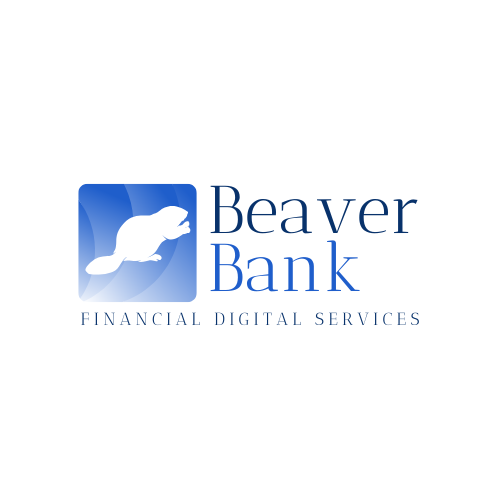
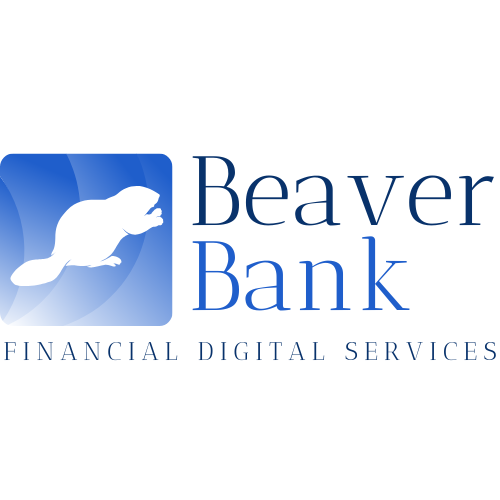
Criando o formulário da página de login

diff --git a/css/index.css b/css/index.css
@@ -1,11 +1,108 @@
-.container-esquerda{
-    width: 50%;
-    height: 100%;
-    background-color: blue;
+:root{
+    --azul: #1f5ecb;
+    --azul-escuro: #08326b;
+    --preto: #000000;
+    --branco: #FFFFFF;
+    --cinza: #808080;
+    --cinza-escuro: #404040;
 }
 
-.container-direita{
-    width: 50%;
+* {
+    margin: 0;
+    padding: 0;
+    box-sizing: border-box;
+}
+html, body {
     height: 100%;
-    background-color: red;
+    width: 100%;
+    background-color: white;
+}
+
+.container {
+    display: flex;
+    width: 100%;
+    height: 100vh; /* vh = viewport height */
+}
+
+.container-esquerda {
+    width: 40%;
+    height: 100%; 
+    background-color: var(--branco);
+    display: flex;
+    justify-content: center;
+    align-items: center;
+}
+
+.container-esquerda img{
+    width: 70%;
+
+}
+
+
+.container-direita {
+    width: 60%;
+    height: 100%;
+    border-bottom-left-radius: 50px;
+    display: flex;
+    justify-content: center;
+    align-items: center;
+    background: #1F5ECB;
+    background: linear-gradient(44deg, rgba(31, 94, 203, 1) 0%, rgba(8, 50, 107, 1) 100%);
+}
+
+.login{
+    width: 70%;
+    height: 60%;
+    background-color: var(--branco);
+    border-radius: 20px;
+}
+
+.login-titulo{
+    width: 100%;
+    height: 20%;
+    text-align: center;
+    font-size: 40px;
+    font-family: "Poppins", sans-serif;
+    font-weight: 600;
+    color: var(--azul);
+    display: flex;
+    justify-content: center;
+    align-items: center;
+}
+
+.formulario{
+    width: 100%;
+    height: 80%;
+    display: flex;
+    align-items: center;
+    flex-direction: column;
+    gap: 20px;
+}
+
+.formulario-input{
+    border-radius: 5px;
+    width: 80%;
+    height: 12%;
+    border: 1px solid var(--azul);
+    padding-left: 5px;
+}
+
+.formulario-input::placeholder{
+    color: var(--azul);
+    font-family: Poppins;
+}
+
+.formulario-input:focus{
+    border: 2px solid var(--azul);
+    outline: none;
+}
+
+.botao-formulario{
+    width: 60%;
+    height: 15%;
+    background-color: var(--azul);
+    color: var(--branco);
+    border: none;
+    border-radius: 10px;
+    font-family: Poppins;
 }

diff --git a/index.html b/index.html
@@ -6,15 +6,31 @@
         <title>Página de Cadastro</title>
         <link rel="stylesheet" href="css/index.css">
         <script defer src="js/index.js"></script>
+        <link rel="preconnect" href="https://fonts.googleapis.com">
+        <link rel="preconnect" href="https://fonts.gstatic.com" crossorigin>
+        <link href="https://fonts.googleapis.com/css2?family=Old+Standard+TT:ital,wght@0,400;0,700;1,400&family=Poppins:ital,wght@0,100;0,200;0,300;0,400;0,500;0,600;0,700;0,800;0,900;1,100;1,200;1,300;1,400;1,500;1,600;1,700;1,800;1,900&display=swap" rel="stylesheet">
     </head>
     <body>
         <div class="container">
             <div class="container-esquerda">
-
+                <img src="images/beaver_bank.png
+                " alt="">
             </div>
+            
             <div class="container-direita">
-                
+                <div class="login">
+                    <div class="login-titulo">
+                        <p>Login</p>
+                    </div>
+                    <form action="submit" class="formulario">
+                        <input type="text" placeholder="Usuário" class="formulario-input">
+                        <input type="password" placeholder="Senha" class="formulario-input">
+                        <button class="botao-formulario">Entrar</button>
+                        <p></p>
+                    </form>
+                </div>
             </div>
+
         </div>
     </body>
 </html>
